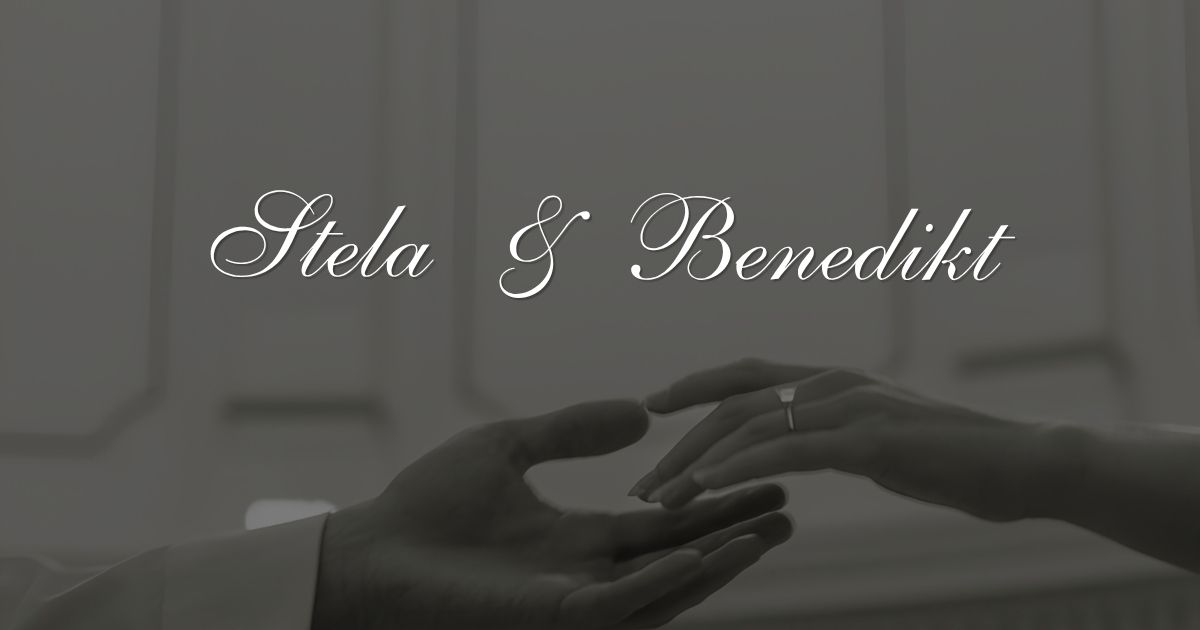
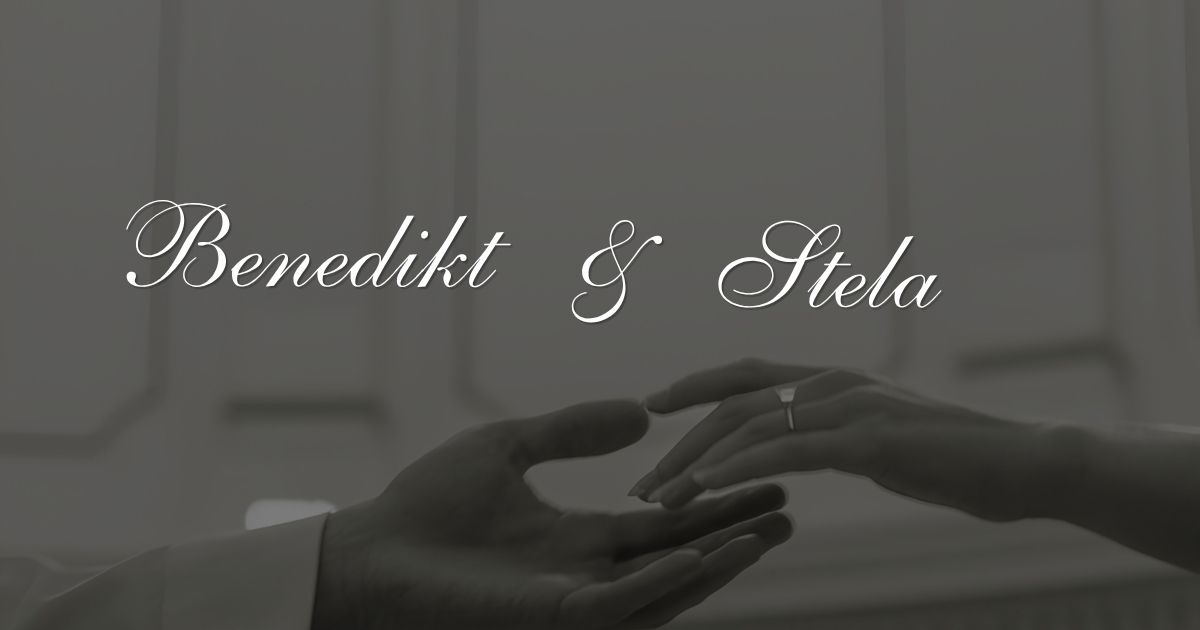
l

Changed region(s): [[0.0925, 0.3016, 0.8633, 0.5127], [0.6475, 0.3317, 0.6783, 0.3619]]

diff --git a/public/benedikt-stela.html b/public/benedikt-stela.html
@@ -2,19 +2,19 @@
 <html lang="hr">
   <head>
     <meta charset="UTF-8" />
-    <title>Stela i Benedikt - Pozivnica za vjenčanje</title>
+    <title>Benedikt i Stela - Pozivnica za vjenčanje</title>
 
     <meta
       name="description"
-      content="Kliknite i otvorite digitalnu pozivnicu za vjenčanje Stele i Benedikta."
+      content="Kliknite i otvorite digitalnu pozivnicu za vjenčanje Benedikta i Stele."
     />
 
     <!-- OG -->
     <meta property="og:type" content="website" />
-    <meta property="og:title" content="Stela i Benedikt - Pozivnica za vjenčanje" />
+    <meta property="og:title" content="Benedikt i Stela - Pozivnica za vjenčanje" />
     <meta
       property="og:description"
-      content="Kliknite i otvorite digitalnu pozivnicu za vjenčanje Stele i Benedikta."
+      content="Kliknite i otvorite digitalnu pozivnicu za vjenčanje Benedikta i Stele."
     />
     <meta
       property="og:url"
@@ -30,10 +30,10 @@
 
     <!-- Twitter -->
     <meta name="twitter:card" content="summary_large_image" />
-    <meta name="twitter:title" content="Stela i Benedikt - Pozivnica za vjenčanje" />
+    <meta name="twitter:title" content="Benedikt i Stela - Pozivnica za vjenčanje" />
     <meta
       name="twitter:description"
-      content="Kliknite i otvorite digitalnu pozivnicu za vjenčanje Stele i Benedikta."
+      content="Kliknite i otvorite digitalnu pozivnicu za vjenčanje Benedikta i Stele."
     />
     <meta
       name="twitter:image"

diff --git a/src/components/MinimalGoldInvitationCard.jsx b/src/components/MinimalGoldInvitationCard.jsx
@@ -88,9 +88,10 @@ function MinimalGoldInvitationCard({
           <p className="minimal-invitation-kicker">{t.invitation}</p>
 
           <div className="minimal-invitation-monogram">
-            <span>{safeBrideName[0]}</span>
-            <span className="minimal-invitation-monogram-and">&</span>
             <span>{safeGroomName[0]}</span>
+            <span className="minimal-invitation-monogram-and">&</span>
+            
+            <span>{safeBrideName[0]}</span>
           </div>
 
           <h1
@@ -100,7 +101,7 @@ function MinimalGoldInvitationCard({
                 : ""
             }`}
           >
-            <span>{safeBrideName}</span>
+                <span>{safeGroomName}</span>
 
             <span className="minimal-invitation-amp">
               <svg
@@ -123,7 +124,8 @@ function MinimalGoldInvitationCard({
               </svg>
             </span>
 
-            <span>{safeGroomName}</span>
+        
+            <span>{safeBrideName}</span>
           </h1>
 
           {details.openingText && (

diff --git a/src/components/MinimalGoldIntro.jsx b/src/components/MinimalGoldIntro.jsx
@@ -75,7 +75,7 @@ function MinimalGoldIntro({
           animate={{ opacity: 1, y: 0 }}
           transition={{ duration: 0.9, delay: 0.45 }}
         >
-          <span>{brideName}</span>
+           <span>{groomName}</span>
 
           <span className="minimal-gold-amp" aria-hidden="true">
             <svg
@@ -98,7 +98,8 @@ function MinimalGoldIntro({
             </svg>
           </span>
 
-          <span>{groomName}</span>
+         
+           <span>{brideName}</span>
         </motion.h1>
 
         <motion.div

diff --git a/src/data/demoWedding.js b/src/data/demoWedding.js
@@ -4287,7 +4287,7 @@ events: [
   brideName: "Stela",
   groomName: "Benedikt",
 
-  weddingDate: "10 OKT 2026",
+  weddingDate: "10 LISTOPAD 2026",
   weddingTime: "17:30",
   venue: "Svetište sv. Leopolda Bogdana Mandića",
 
